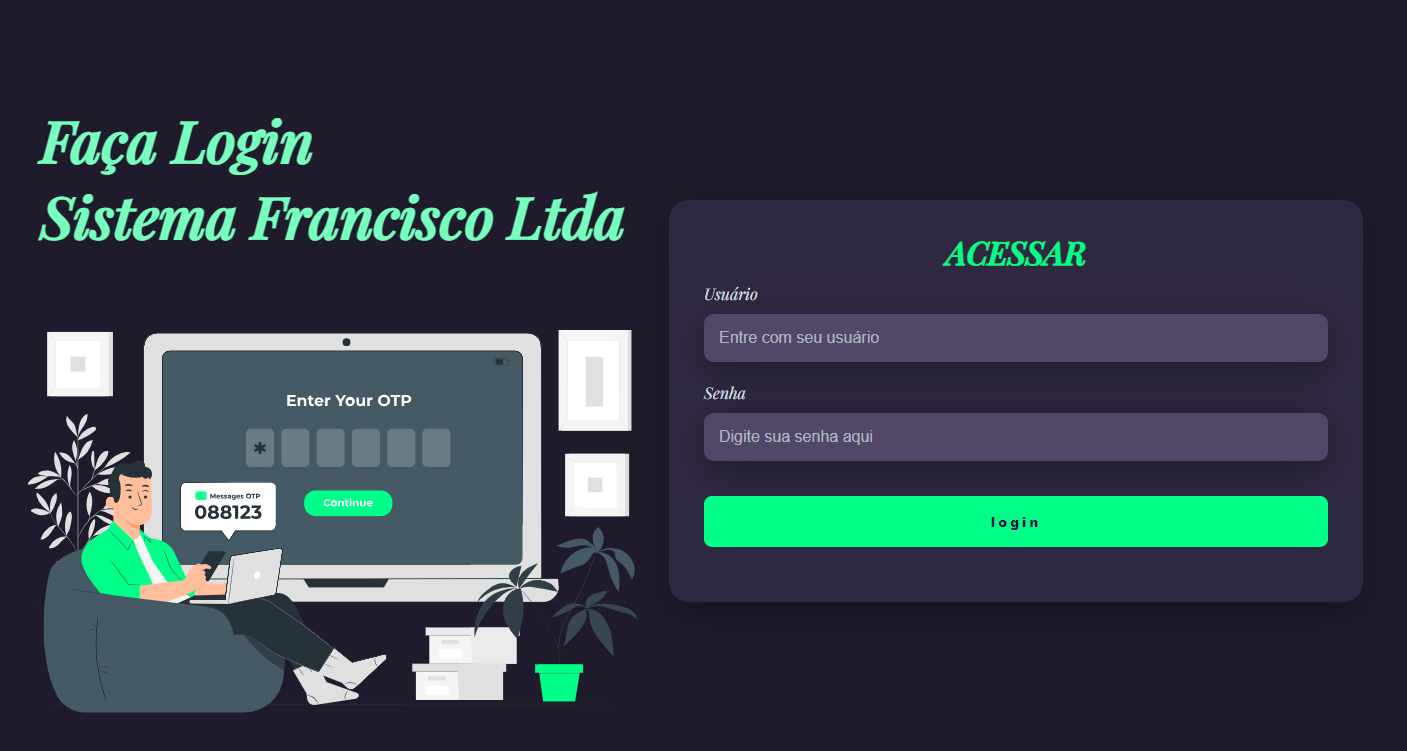
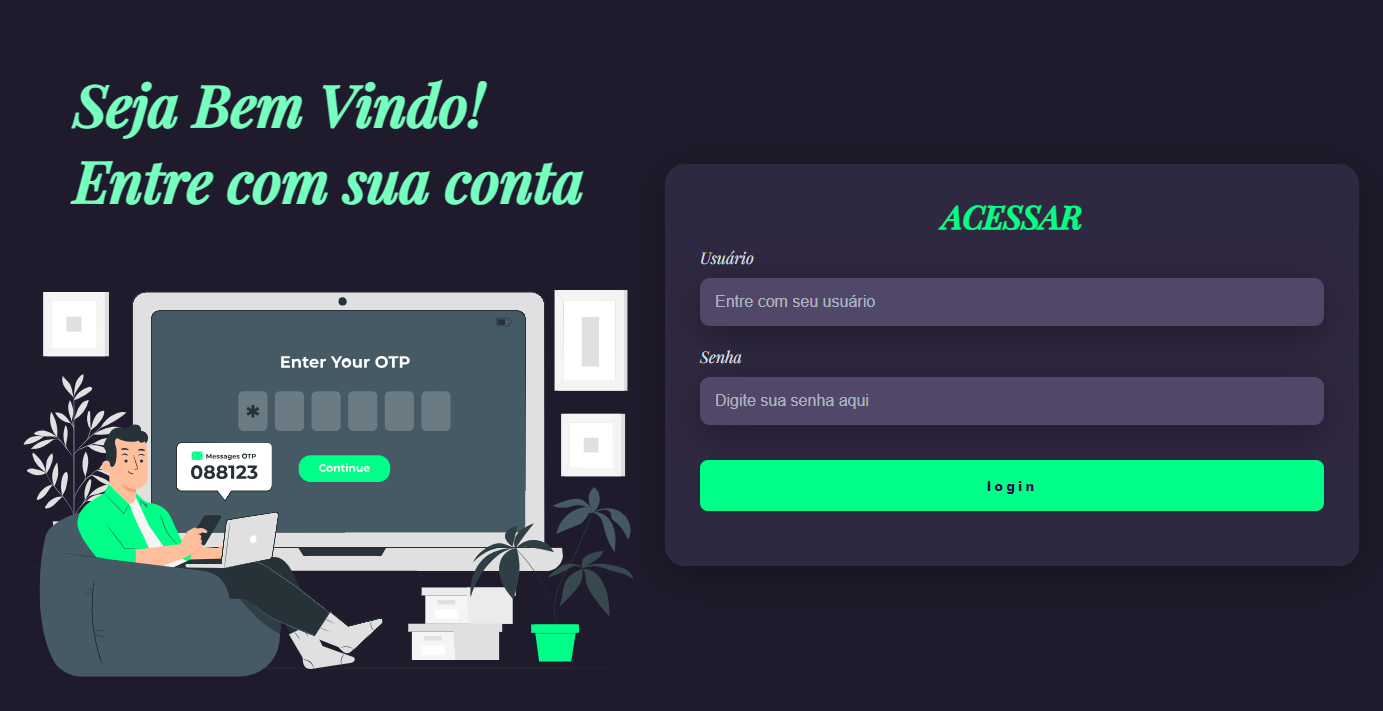
Add files via upload

Changed region(s): [[0.0, 0.0928, 0.9949, 0.9592], [0.0311, 0.9283, 0.1866, 0.9592], [0.3109, 0.9283, 0.342, 0.9592]]

diff --git a/index.html b/index.html
@@ -1,30 +1,33 @@
 <!DOCTYPE html>
 <html lang="en">
+
 <head>
     <meta charset="UTF-8">
     <meta name="viewport" content="width=device-width, initial-scale=1.0">
     <link rel="stylesheet" href="style.css">
     <title>Login</title>
 </head>
+
 <body>
     <div class="main-login">
         <div class="left-login">
-            <h1>Faça Login <br> Sistema Francisco Ltda  </h1>
-            <img src="acesso.svg" class="left-login-image"  alt="acesso animação">
+            <h1>Seja Bem Vindo! <br> Entre com sua conta </h1>
+            <img src="acesso.svg" class="left-login-image" alt="acesso animação">
         </div>
         <div class="card-login">
             <h1>ACESSAR</h1>
-        <div class="textfield">
-            <label for="usuario">Usuário</label>
-            <input type="text" name="usuario" placeholder="Entre com seu usuário">
-        </div>
-         <div class="textfield">
-             <label for="senha">Senha</label>
-             <input type="password" name="senha" placeholder="Digite sua senha aqui">
-         </div>
-<button class="btn-login">Login</button>
+            <div class="textfield">
+                <label for="usuario">Usuário</label>
+                <input type="text" name="usuario" placeholder="Entre com seu usuário">
+            </div>
+            <div class="textfield">
+                <label for="senha">Senha</label>
+                <input type="password" name="senha" placeholder="Digite sua senha aqui">
+            </div>
+            <button class="btn-login">Login</button>
         </div>
         <div class="right-login"></div>
     </div>
 </body>
+
 </html>
